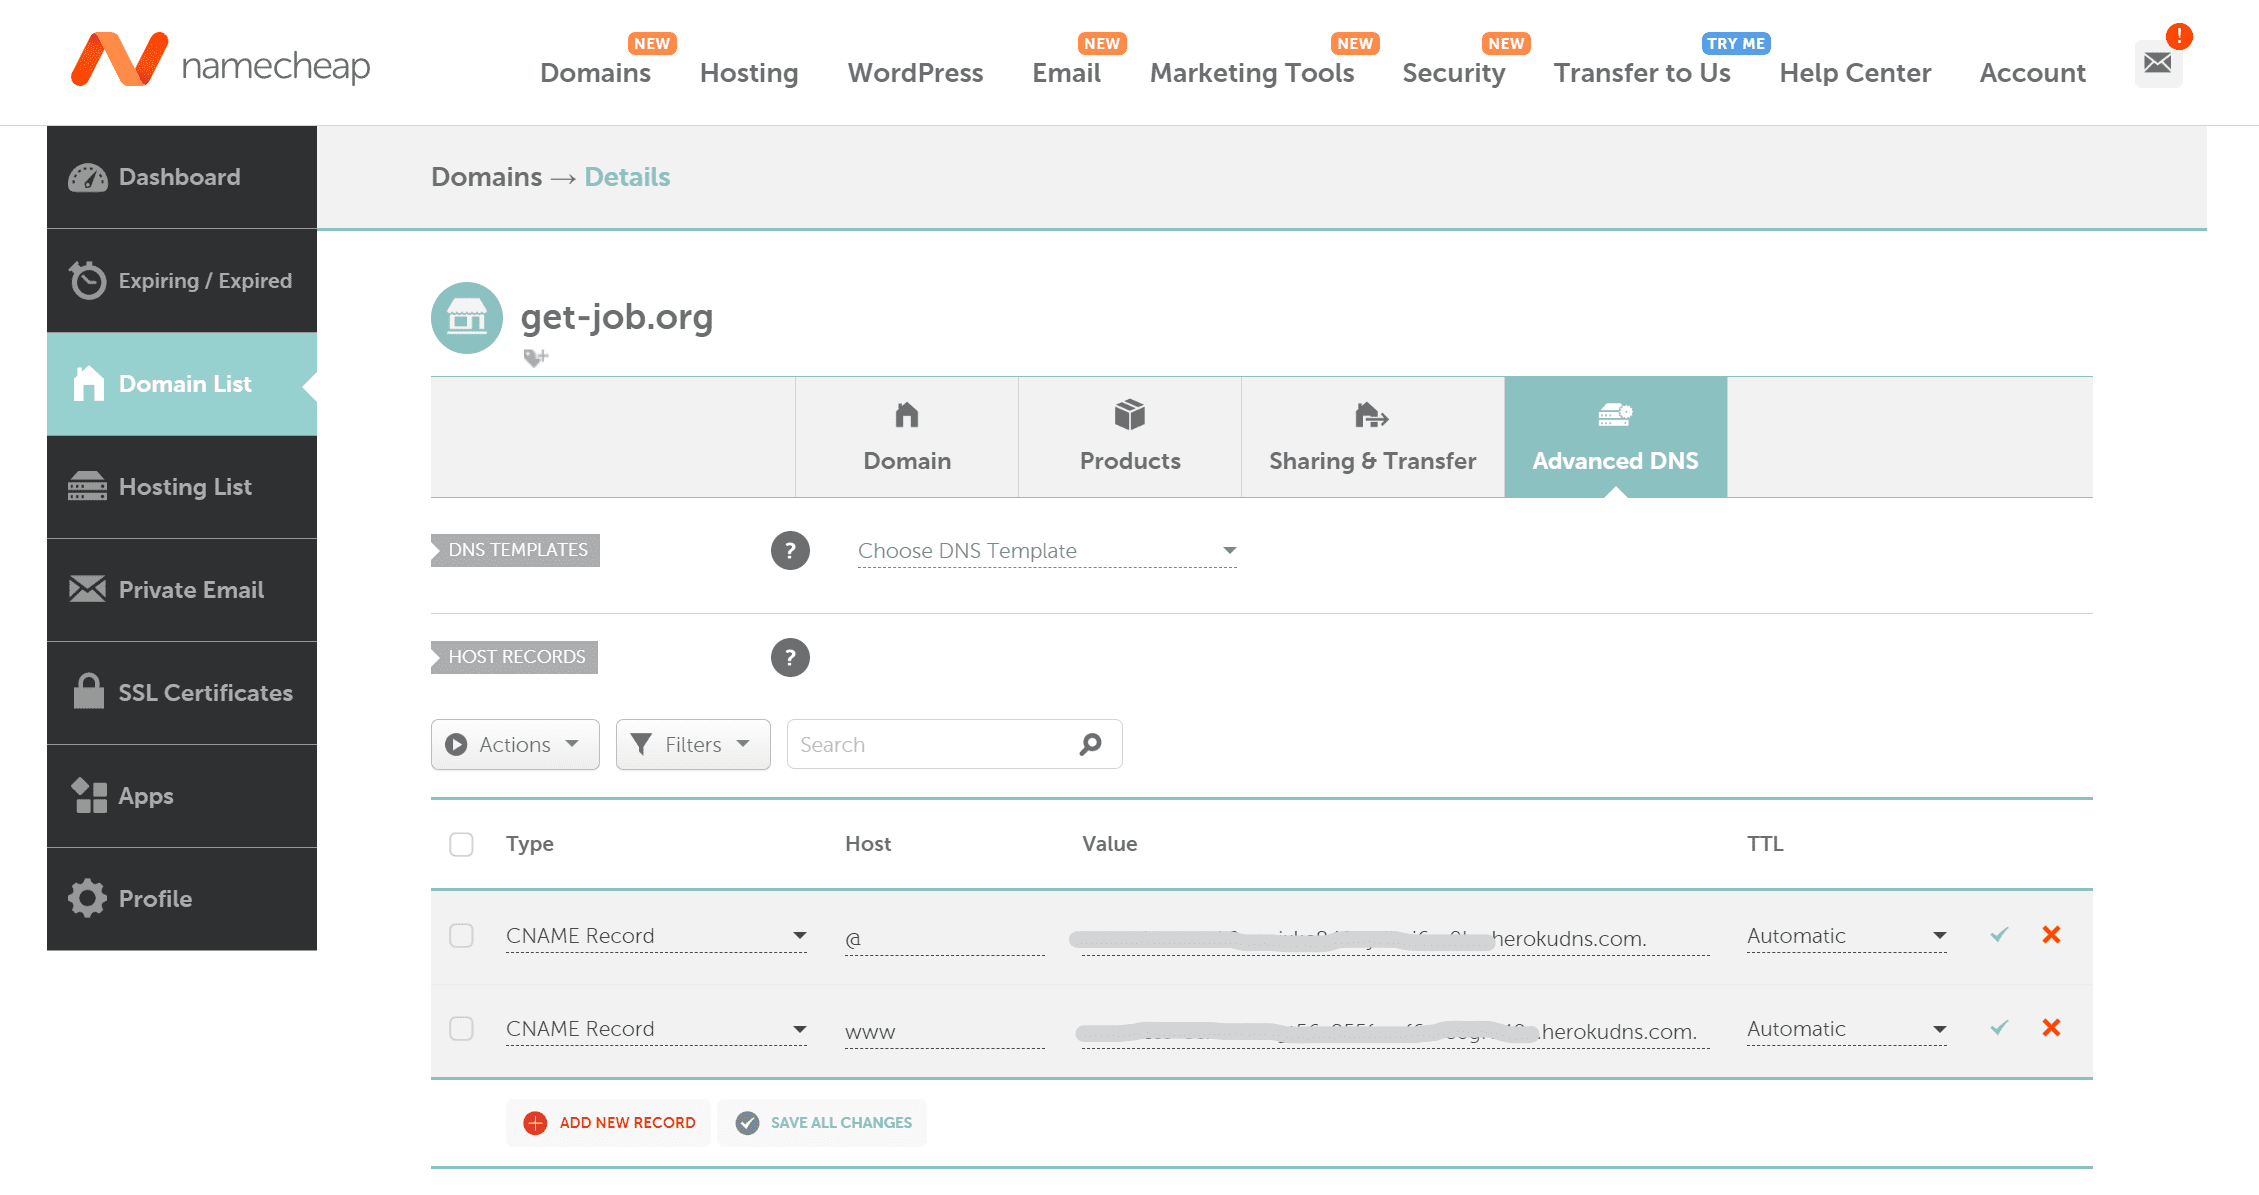
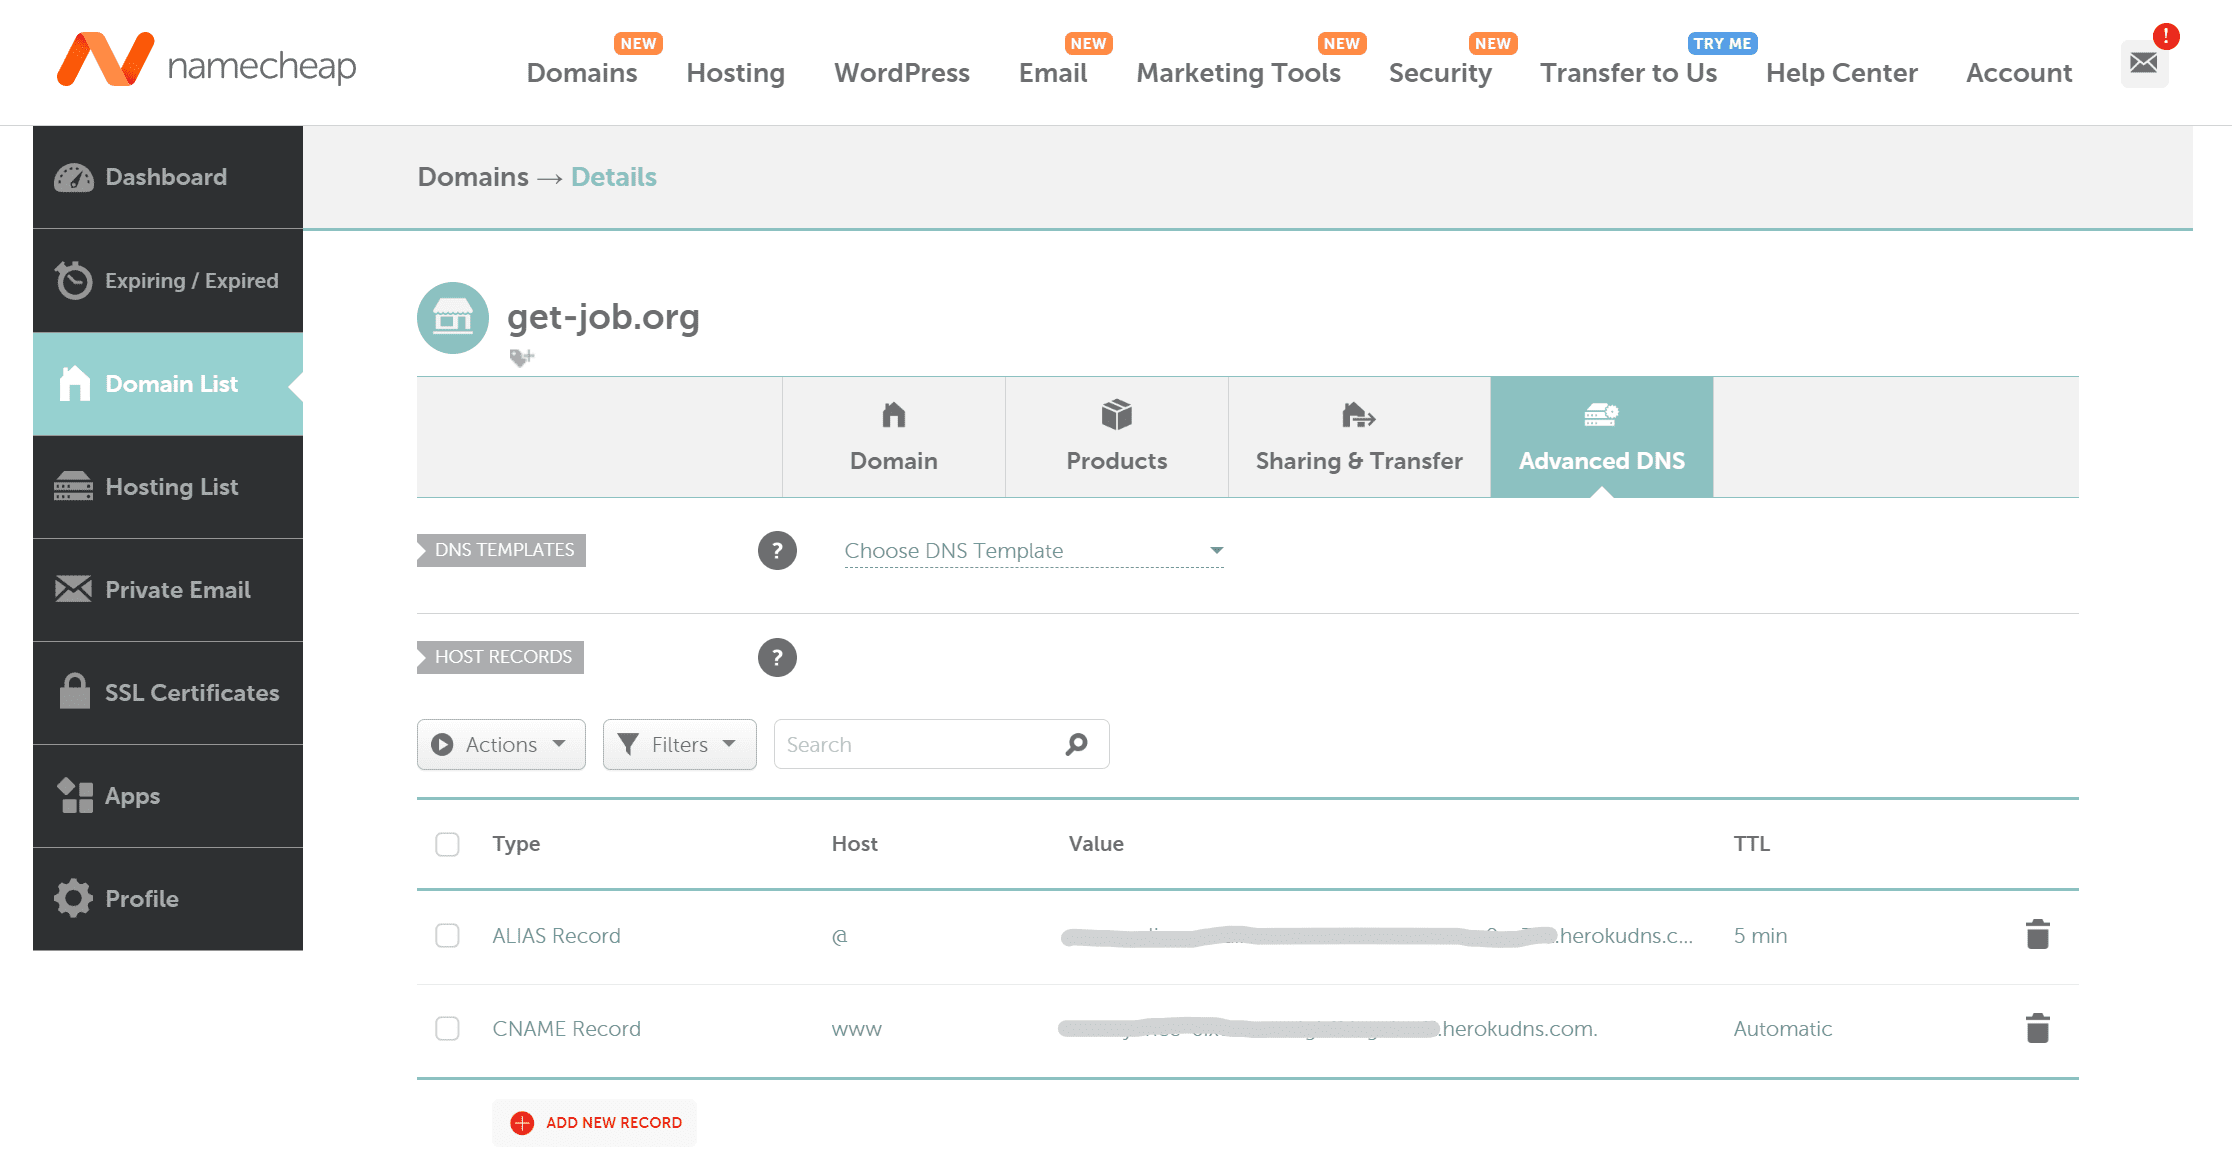
docs: Fix description of namecheap domain configuration

diff --git a/README.md b/README.md
@@ -10,7 +10,7 @@
 
 
 ## Overview
-The relevance of job search in our time constantly increases. [Get Job](https://get-job.live) is an online Job Platform that helps Jobseekers to get desirable jobs and Employers find the right candidates.
+The relevance of job search in our time constantly increases. [Get Job](https://get-job.org) is an online Job Platform that helps Jobseekers to get desirable jobs and Employers find the right candidates.
 This platform presents two distinct modes: _Jobseeker Mode_ and _Employer Mode_.
 
 The *Jobseeker Mode* equips users with tools to explore job opportunities, apply to open positions, and construct their resumes, all while keeping track of their applications.
@@ -18,7 +18,7 @@ Conversely, the Employer Mode empowers employers to advertise vacancies, sift th
 
 The Get Job platform has been intuitively designed, ensuring simplicity and ease of navigation as users engage with the app to fulfill their specific needs. The platform uncovers a broad range of features progressively as users delve deeper into its use. It allows users to manage their data up to the fact that each application or job offer is stored as a snapshot. Thus even if the job is closed or edited, the user can always view the application in the state at the time of submission, as well as Employer can view the Jobseeker's resume at the time of application. Also, Get Job provides users with the ability to receive notifications about new job offers(for Jobseekers) and applications(for Employers), when the resume or vacancy is approved or rejected. The user can disable email notifications at any time and view them only in the app.
 
-Live Demo: https://get-job.live
+Live Demo: https://get-job.org
 
 Heroku: https://get-job.herokuapp.com
 
@@ -1120,17 +1120,15 @@ The Get Job platform is deployed on the [Heroku](https://www.heroku.com/) cloud 
 <summary>Namecheap.com (Active)</summary>
 The get-job.org domain is registered on namecheap.com
 
-- Buy domain
-- Configure the domain DNS settings in Heroku and Namecheap.com. The Heroku DNS settings are used to point the domain to the Heroku app. 
-*Domain DNS settings - heroku.com*
+- Add two domains to your Heroku app. 
 ![domain_dns_heroku](docs/images/deploy/DNS-settings-heroku-namecheap.png)
 
-*Domain DNS settings - namecheap.com*
-    1. Point DNS Target value from "get-job.org" to CNAME host "@"
-    2. Point DNS Target value from "www.get-job.org" to CNAME host "www"
+- Configure DNS settings on Namecheap
+    1. Set DNS Target value from subdomain "www.get-job.org" to CNAME host "www"
+    2. Set DNS Target value from root domain "get-job.org" to ALIAS host "@"
 ![domain_dns_namecheap](docs/images/deploy/dns-management-namecheap.png)
 
-- Add SSL certificate in Heroku.
+- Add SSL certificate in Heroku using ACM (Automated Certificate Management).
 Usually, Heroku free dyno plan does not support [SSL certificates for custom domains](https://devcenter.heroku.com/articles/ssl#dynos-and-certificate-options). They only provide a free SSL certificate for the _herokuapp.com_ domain. In this case, the dyno is upgraded to the **Hobby** plan to enable the SSL certificate for the custom domain.
 
 ![domain_dns](docs/images/deploy/heroku-ssl-1.png)
@@ -1141,12 +1139,13 @@ Usually, Heroku free dyno plan does not support [SSL certificates for custom dom
 ---
 ![domain_dns](docs/images/deploy/heroku-namecheap-ssl-1.png)
 
----
-- Wait for the DNS settings to propagate.
+
+- Wait for the DNS settings to propagate and heroku to issue the SSL certificate. [It usually takes between 45 and 60 minutes to generate a TLS certificate for your app's custom domains.](https://devcenter.heroku.com/articles/automated-certificate-management#view-your-certificate-status) 
 ![domain_dns](docs/images/deploy/heroku-namecheap-ssl-2.png)
 
 
-For more information about Connecting Heroku App to your Namecheap domain, see https://medium.com/@codemon_/connect-heroku-app-to-your-namecheap-domain-afde5d616a8
+For more information about Connecting Heroku App to your Namecheap domain, see 
+https://devcenter.heroku.com/articles/custom-domains and https://devcenter.heroku.com/articles/automated-certificate-management#view-your-certificate-status
 </details>
 
 <details>
